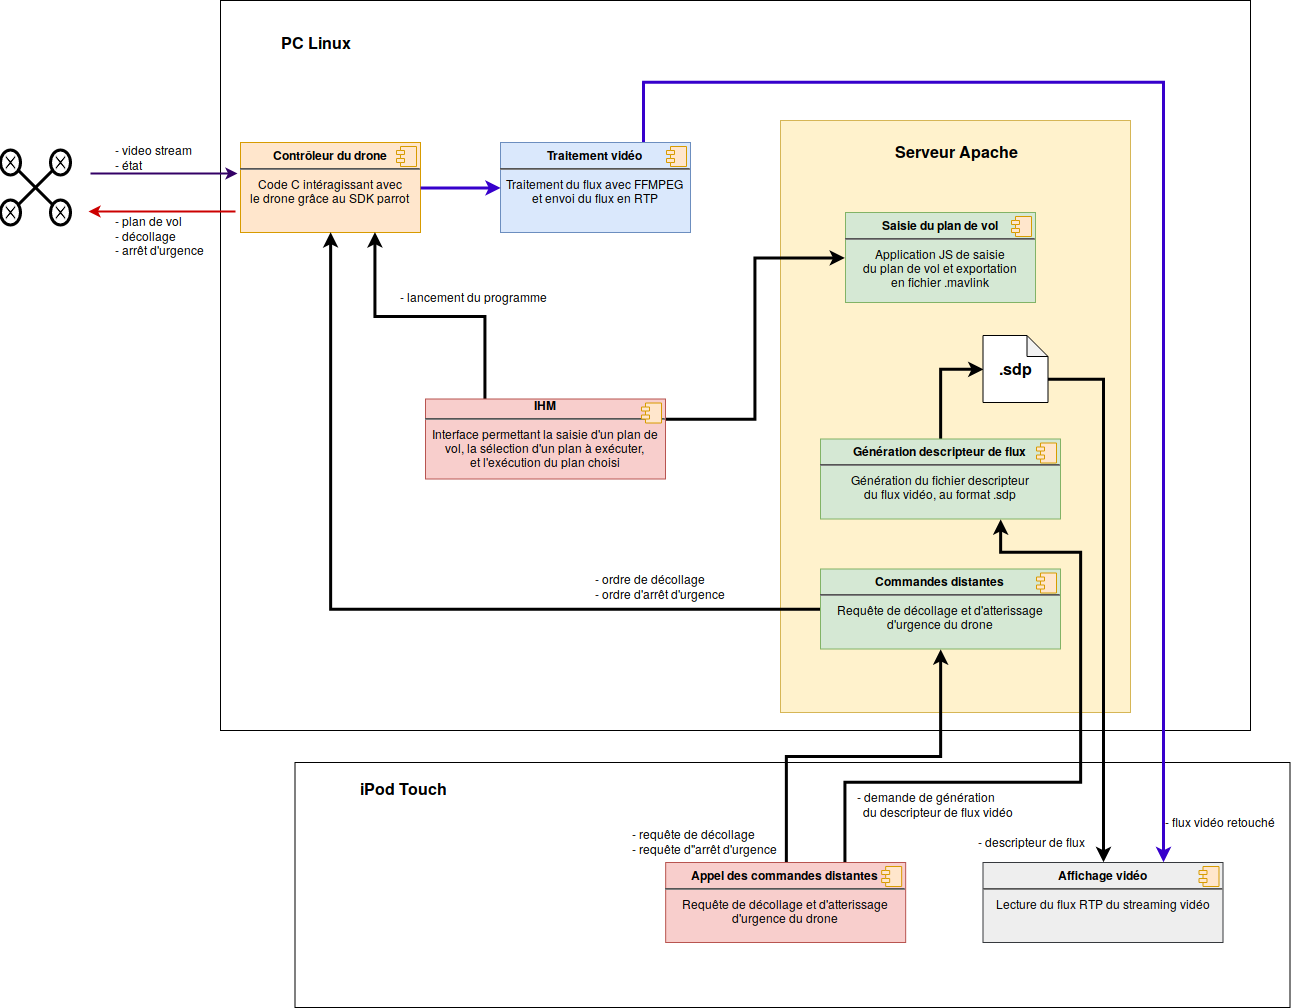
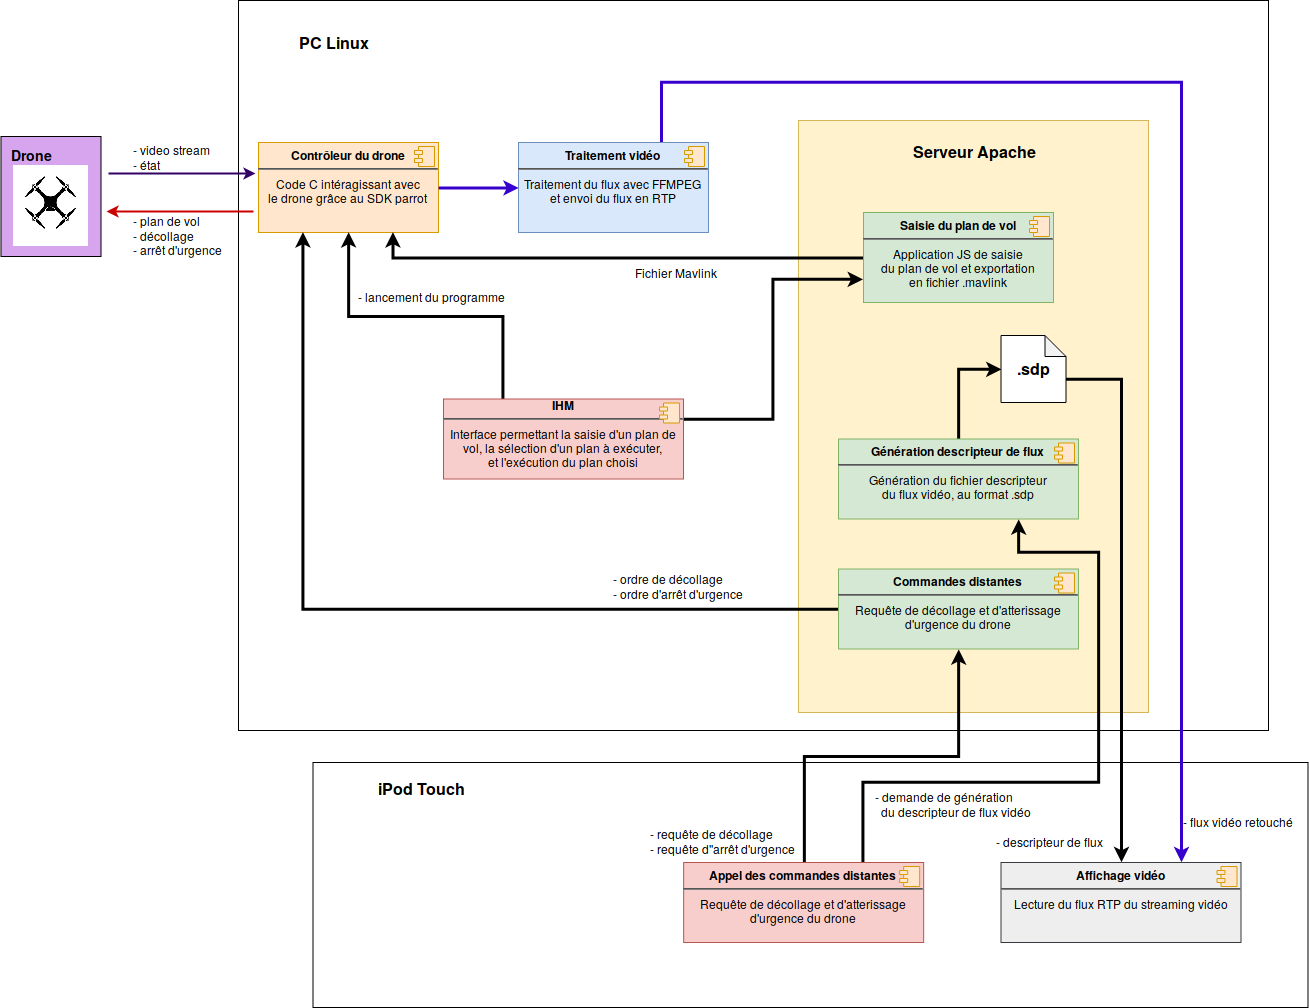
rapport + archi

diff --git a/Rapport_3I013/rapport_proj.tex b/Rapport_3I013/rapport_proj.tex
@@ -207,12 +207,13 @@
     L'interface utilisateur est une interface GTK permettant d'intéragir avec le SDK Parrot afin d'enregistrer des trajets sur le drone et de les exécuter.
     \newline
     Elle permet également d'intéragir avec le Serveur local afin de saisir intéractivement le plan de vol à l'aide de l'application javascript et de créer les fichiers Mavlink.
+    \vspace{0.2cm}
     \newline
     Voici l'architecture d'intéraction de l'interface utilisateur:
         \vspace*{0.5cm}
         \begin{center}
 		\begin{figure}[!h]
-		\includegraphics[scale=0.7]{Rapport/Interface_utilisateur.jpg}\\
+		\includegraphics[scale=0.5]{Rapport/new_HIM.png}\\
 		 \vspace*{0.3cm}
 		\caption{Interface utilisateur}
 		\end{figure}
@@ -233,29 +234,33 @@
         	\item Exécution d'un plan de vol.
 			\item Arrêt d'urgence.
     \end{enumerate}
-    Il permet égaement la réception du flux vidéo et de l'état du drone.
+    Le décolage et l'arrêt d'urgence du drone sont des commandes envoyés directement par le serveurs, ses commandes seront envoyés au serveur par l'IPod afin de permettre un décolage et un arrêt ergonomique.
+    \vspace{0.2cm}
+    \newline
+    Il permet égaement la réception de l'état du drone et du flux vidéo qui sera par la suite traité avec FFMPEG et envoyé en RTP à l'Ipod.
     
 	    \vspace*{0.3cm}
 	    \begin{center}
 		\begin{figure}[!h]
-		\includegraphics[scale=0.7]{Rapport/archi_controle_drone.png}\\
+		\includegraphics[scale=0.4]{Rapport/new_controle_drone.png}\\
 		\caption{Controle du drone}
 		\end{figure}
         \end{center}
 		
      \newpage
      \subsection{Application IOS}
-     L'application IOS permet dans un permier temps de scanner le réseau afin de se connecté au réseau du serveur local.
-     (VLC ??)
+     L'application IOS permet d'afficher le flux vidéo du drone et d'envoyés des requetes au serveur en effectuant des gestes simples avec l'Ipod afin de démarrage du drone et d'effectuer l'arrêt d'urgence.
+     \vspace{0.2cm}
      \newline
-     dans un second temps elle permet de visualiser le retour video du drone en direct.
-     Le flux video est envoyé au SDK Parrot et est ensuite diffusé en streaming sur le serveur local.
+     Dans un premier temps, l'application scanne le réseau afin de se connecter au serveur local.
+     Apres la connection une requete de demande de description du flux vidéo au format SDP est automatiquement envoyé au serveur.
+     \vspace{0.2cm}
      \newline
-     L'application affiche à l'aide d'une WK Webview le retour vidéo.
+     Le descripteur de flux est alors retourné par le serveur à l'application IOS, en parrallèle, elle reçoit également le flux video grâce au protocol RTP, le SDK VLC permet ensuite l'affichage vidéo.
         \vspace*{0.3cm}
 	    \begin{center}
 		\begin{figure}[!h]
-		\includegraphics[scale=0.5]{Rapport/3_Architecture_logicielle_iPod.png}\\
+		\includegraphics[scale=0.4]{Rapport/new_archi_logicielle.png}\\
 		\caption{Application IOS}
 		\end{figure}
         \end{center}
